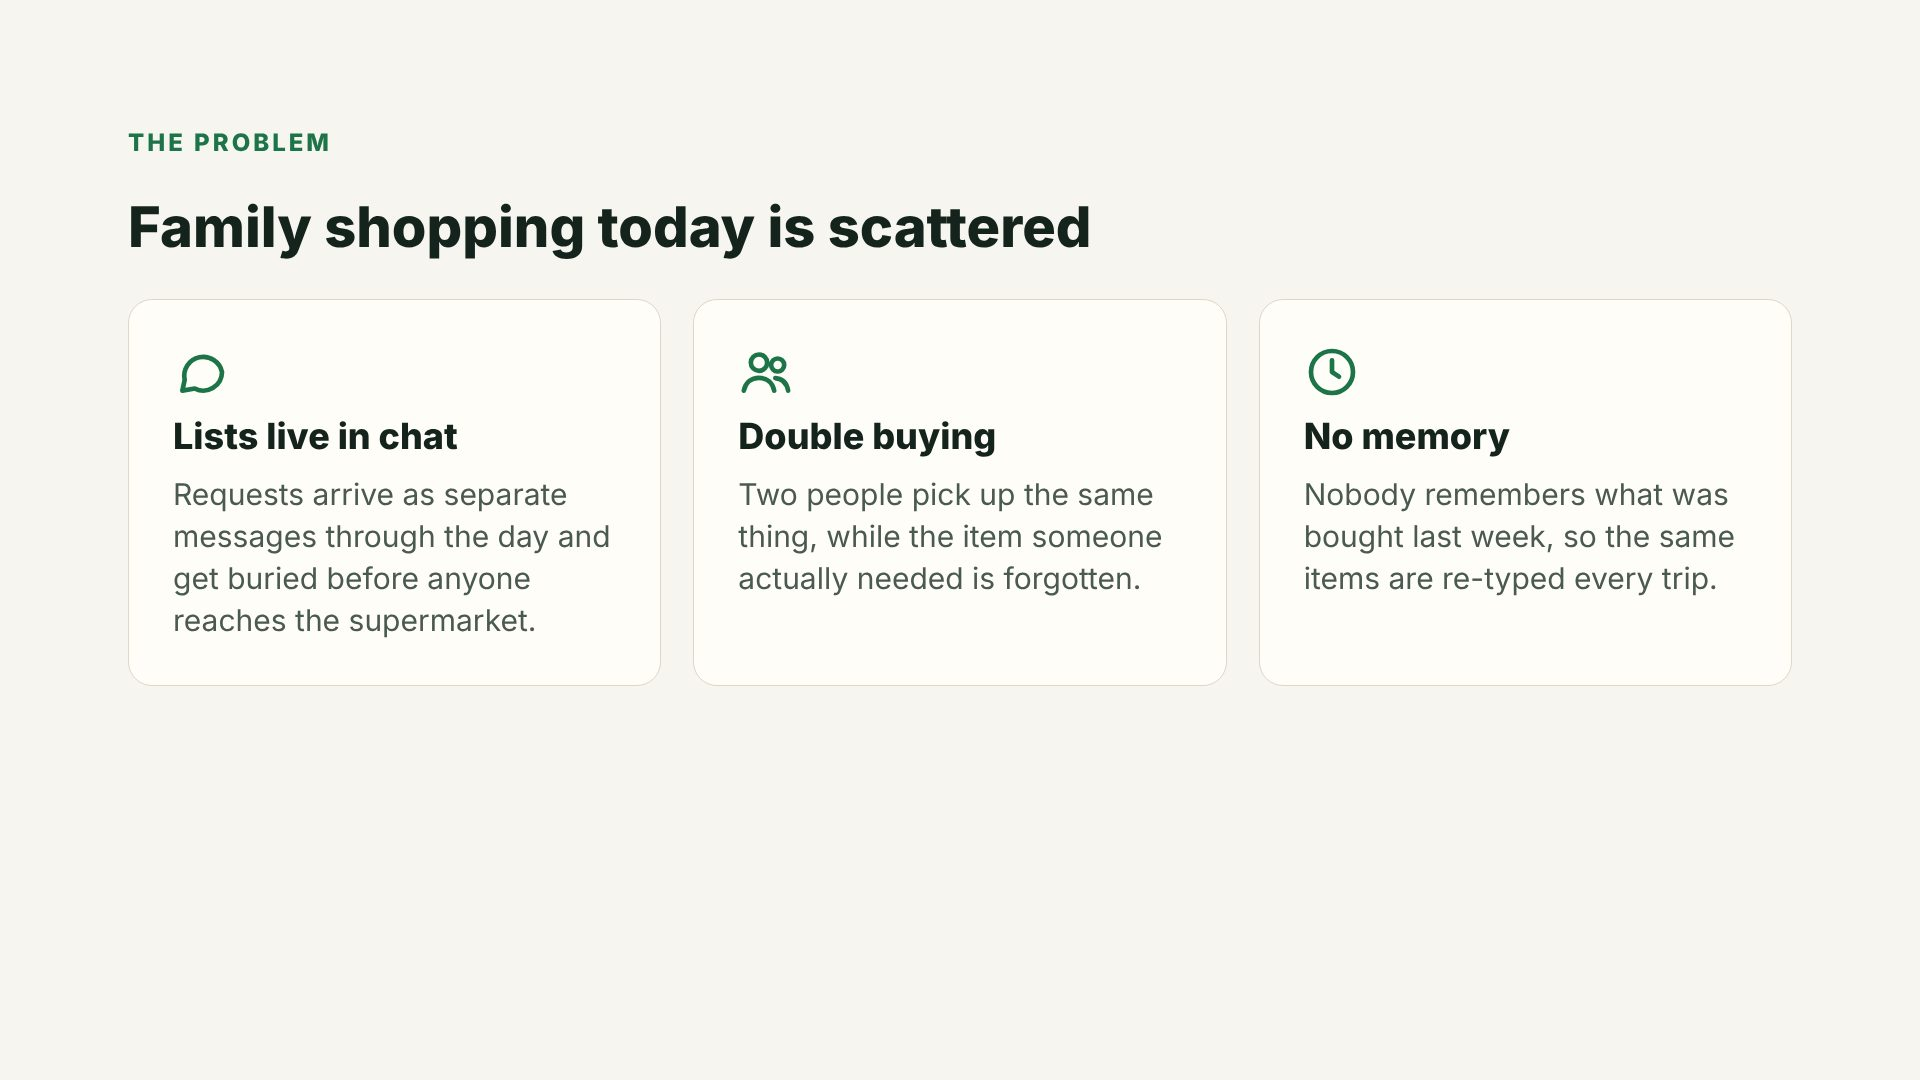
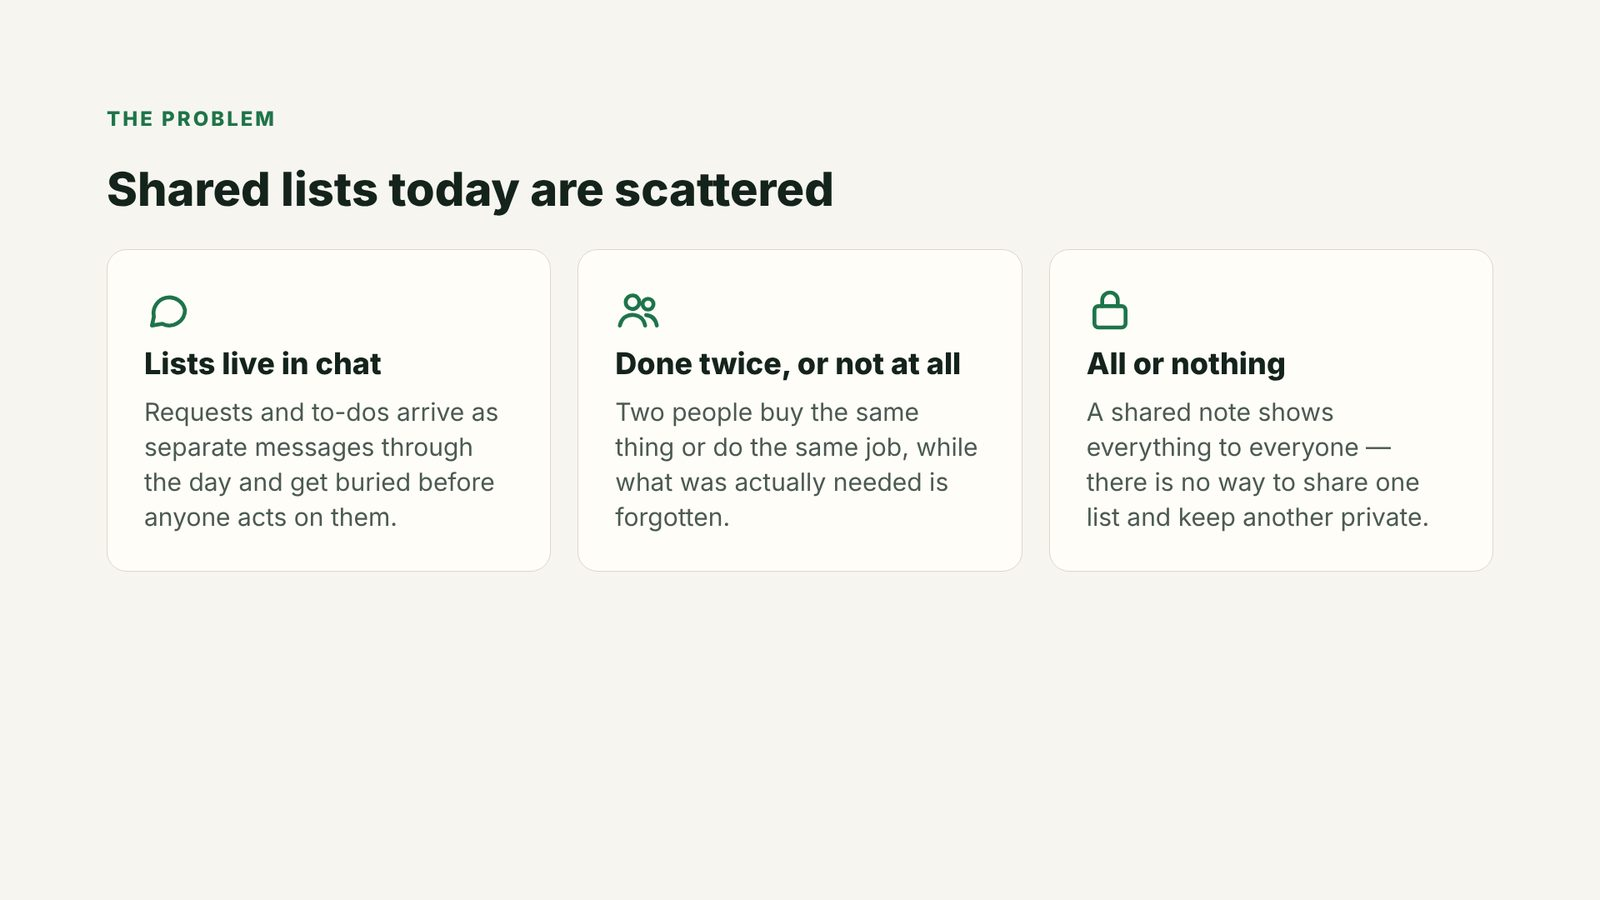
Slides: Shared Lists, 19 slides

diff --git a/about/slides/index.html b/about/slides/index.html
@@ -3,8 +3,8 @@
 <head>
 <meta charset="utf-8">
 <meta name="viewport" content="width=device-width, initial-scale=1">
-<title>Slides — Family Shopping List</title>
-<meta name="description" content="Business overview and user guide for Family Shopping List, in 18 slides.">
+<title>Slides — Shared Lists</title>
+<meta name="description" content="Business overview and user guide for Shared Lists, in 19 slides.">
 <meta property="og:image" content="slide-01.jpg">
 <link href="https://fonts.googleapis.com/css2?family=Nunito:wght@600;700;800;900&display=swap" rel="stylesheet">
 <style>
@@ -40,28 +40,29 @@ video,img{-webkit-user-select:none;user-select:none;-webkit-touch-callout:none;-
 </header>
 <main>
   <div class="track" id="track" tabindex="0" aria-label="Slides" aria-roledescription="carousel">
-    <figure class="slide" id="s1"><img src="slide-01.jpg" alt="Slide 1: Family Shopping List — business overview and user guide" width="1600" height="900" decoding="async"></figure>
-    <figure class="slide" id="s2"><img src="slide-02.jpg" alt="Slide 2: The problem: family shopping today is scattered" width="1600" height="900" decoding="async"></figure>
-    <figure class="slide" id="s3"><img src="slide-03.jpg" alt="Slide 3: The solution: one live list on every family phone" width="1600" height="900" loading="lazy" decoding="async"></figure>
-    <figure class="slide" id="s4"><img src="slide-04.jpg" alt="Slide 4: What the family gains" width="1600" height="900" loading="lazy" decoding="async"></figure>
-    <figure class="slide" id="s5"><img src="slide-05.jpg" alt="Slide 5: Features at a glance" width="1600" height="900" loading="lazy" decoding="async"></figure>
-    <figure class="slide" id="s6"><img src="slide-06.jpg" alt="Slide 6: How it is built" width="1600" height="900" loading="lazy" decoding="async"></figure>
-    <figure class="slide" id="s7"><img src="slide-07.jpg" alt="Slide 7: Quality: tested before every release" width="1600" height="900" loading="lazy" decoding="async"></figure>
-    <figure class="slide" id="s8"><img src="slide-08.jpg" alt="Slide 8: Part 2: User guide" width="1600" height="900" loading="lazy" decoding="async"></figure>
-    <figure class="slide" id="s9"><img src="slide-09.jpg" alt="Slide 9: Step 1: Open the app and sign up" width="1600" height="900" loading="lazy" decoding="async"></figure>
-    <figure class="slide" id="s10"><img src="slide-10.jpg" alt="Slide 10: Step 2: Add what the house needs" width="1600" height="900" loading="lazy" decoding="async"></figure>
-    <figure class="slide" id="s11"><img src="slide-11.jpg" alt="Slide 11: Step 3: Tick items off in the supermarket" width="1600" height="900" loading="lazy" decoding="async"></figure>
-    <figure class="slide" id="s12"><img src="slide-12.jpg" alt="Slide 12: Step 4: Every trip is saved for you" width="1600" height="900" loading="lazy" decoding="async"></figure>
-    <figure class="slide" id="s13"><img src="slide-13.jpg" alt="Slide 13: Step 5: Invite your family" width="1600" height="900" loading="lazy" decoding="async"></figure>
-    <figure class="slide" id="s14"><img src="slide-14.jpg" alt="Slide 14: Step 6: Switch between people and lists" width="1600" height="900" loading="lazy" decoding="async"></figure>
-    <figure class="slide" id="s15"><img src="slide-15.jpg" alt="Slide 15: Step 7: Create and describe lists" width="1600" height="900" loading="lazy" decoding="async"></figure>
-    <figure class="slide" id="s16"><img src="slide-16.jpg" alt="Slide 16: Step 8: Use it in Arabic or English" width="1600" height="900" loading="lazy" decoding="async"></figure>
-    <figure class="slide" id="s17"><img src="slide-17.jpg" alt="Slide 17: Quick answers" width="1600" height="900" loading="lazy" decoding="async"></figure>
-    <figure class="slide" id="s18"><img src="slide-18.jpg" alt="Slide 18: Welcome — start today" width="1600" height="900" loading="lazy" decoding="async"></figure>
+    <figure class="slide" id="s1"><img src="slide-01.jpg" alt="Slide 1: Shared Lists — business overview and user guide" width="1600" height="900" decoding="async"></figure>
+    <figure class="slide" id="s2"><img src="slide-02.jpg" alt="Slide 2: The problem: shared lists today are scattered" width="1600" height="900" decoding="async"></figure>
+    <figure class="slide" id="s3"><img src="slide-03.jpg" alt="Slide 3: The solution: live lists, shared one by one" width="1600" height="900" decoding="async"></figure>
+    <figure class="slide" id="s4"><img src="slide-04.jpg" alt="Slide 4: What you gain" width="1600" height="900" decoding="async"></figure>
+    <figure class="slide" id="s5"><img src="slide-05.jpg" alt="Slide 5: Features at a glance" width="1600" height="900" decoding="async"></figure>
+    <figure class="slide" id="s6"><img src="slide-06.jpg" alt="Slide 6: How it is built" width="1600" height="900" decoding="async"></figure>
+    <figure class="slide" id="s7"><img src="slide-07.jpg" alt="Slide 7: Quality: tested before every release" width="1600" height="900" decoding="async"></figure>
+    <figure class="slide" id="s8"><img src="slide-08.jpg" alt="Slide 8: Part 2: user guide" width="1600" height="900" decoding="async"></figure>
+    <figure class="slide" id="s9"><img src="slide-09.jpg" alt="Slide 9: Step 1: open the app and sign up" width="1600" height="900" decoding="async"></figure>
+    <figure class="slide" id="s10"><img src="slide-10.jpg" alt="Slide 10: Step 2: add what you need" width="1600" height="900" decoding="async"></figure>
+    <figure class="slide" id="s11"><img src="slide-11.jpg" alt="Slide 11: Step 3: tick things off" width="1600" height="900" decoding="async"></figure>
+    <figure class="slide" id="s12"><img src="slide-12.jpg" alt="Slide 12: Step 4: everything you finish is saved" width="1600" height="900" decoding="async"></figure>
+    <figure class="slide" id="s13"><img src="slide-13.jpg" alt="Slide 13: Step 5: make a list for anything" width="1600" height="900" decoding="async"></figure>
+    <figure class="slide" id="s14"><img src="slide-14.jpg" alt="Slide 14: Step 6: share each list with the right people" width="1600" height="900" decoding="async"></figure>
+    <figure class="slide" id="s15"><img src="slide-15.jpg" alt="Slide 15: Step 7: open lists others share with you" width="1600" height="900" decoding="async"></figure>
+    <figure class="slide" id="s16"><img src="slide-16.jpg" alt="Slide 16: Step 8: find, edit and delete lists" width="1600" height="900" decoding="async"></figure>
+    <figure class="slide" id="s17"><img src="slide-17.jpg" alt="Slide 17: Step 9: use it in Arabic or English" width="1600" height="900" decoding="async"></figure>
+    <figure class="slide" id="s18"><img src="slide-18.jpg" alt="Slide 18: Tips and questions" width="1600" height="900" decoding="async"></figure>
+    <figure class="slide" id="s19"><img src="slide-19.jpg" alt="Slide 19: Make your first shared list" width="1600" height="900" decoding="async"></figure>
   </div>
   <div class="bar">
     <button class="nav" id="prev" type="button" aria-label="Previous slide">‹</button>
-    <span class="count" id="count" aria-live="polite">1 / 18</span>
+    <span class="count" id="count" aria-live="polite">1 / 19</span>
     <button class="nav" id="next" type="button" aria-label="Next slide">›</button>
   </div>
   <p class="hint">Swipe, or use the ← → keys</p>
